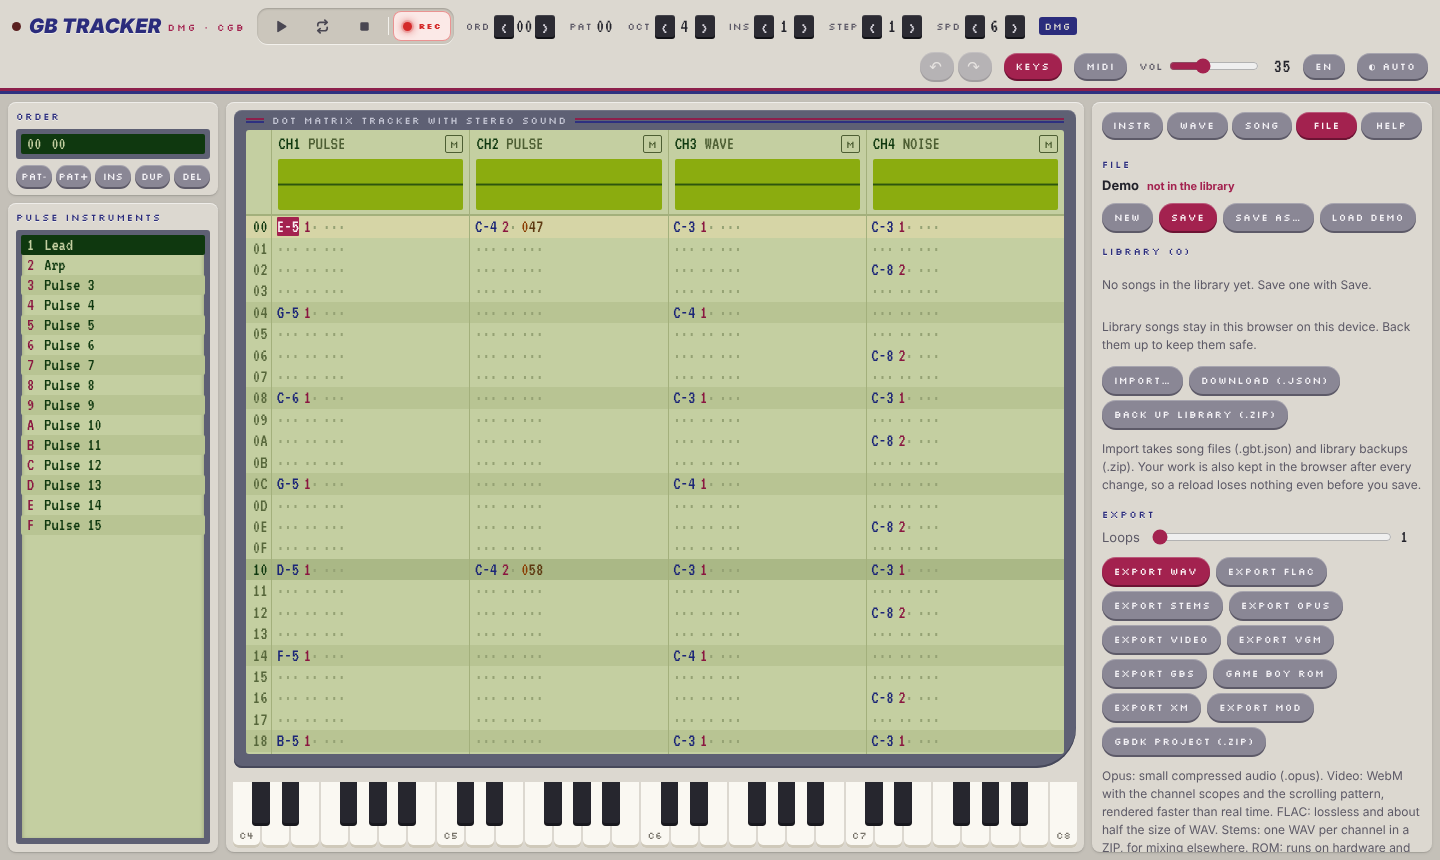
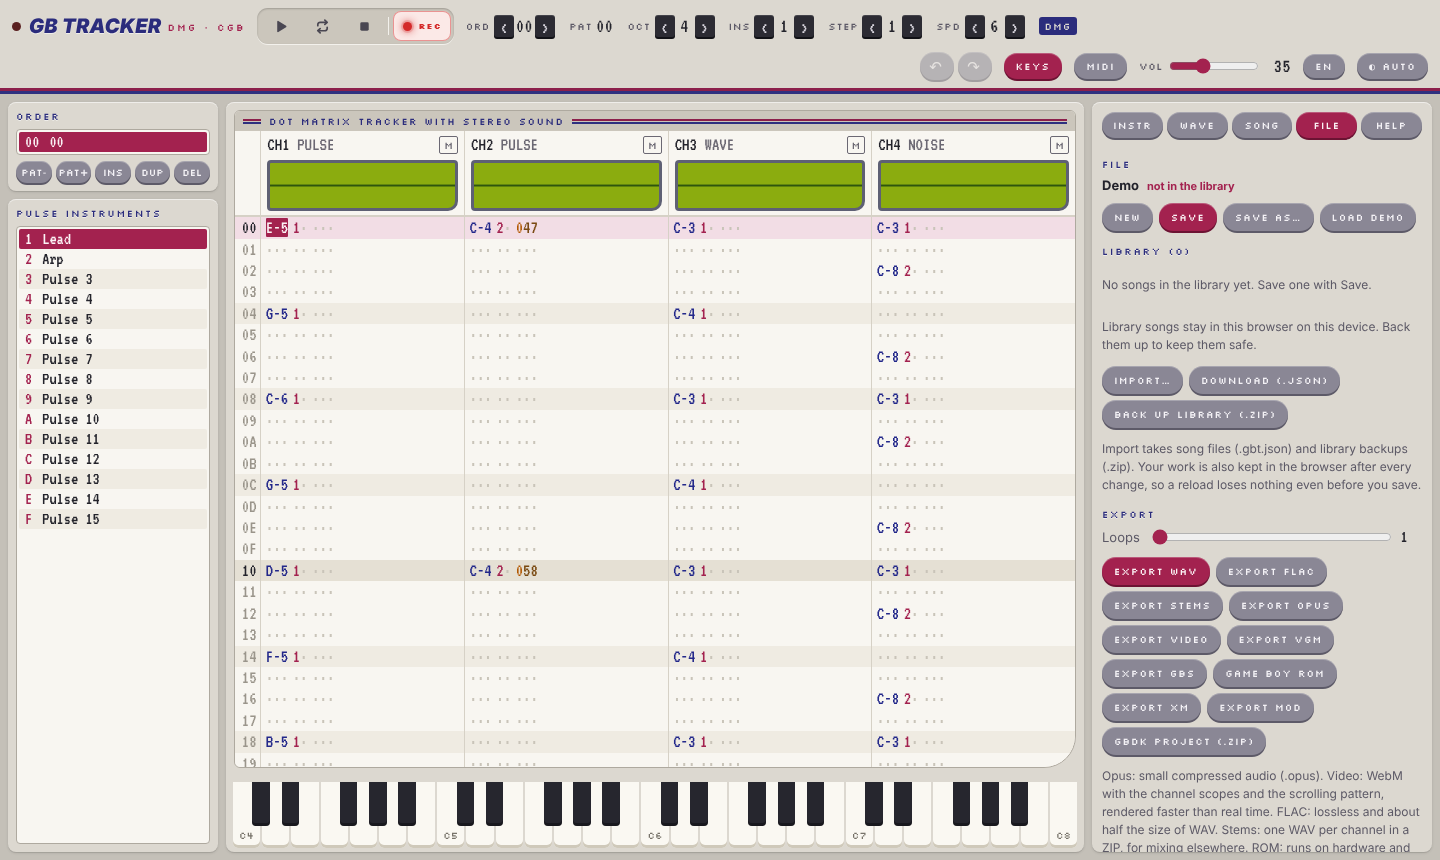
Take the LCD look off the pattern and lists, keep it for the scopes (#43)
The pattern goes back to a light, colour-coded sheet (dark sheet in dark
mode) framed by the DMG stripes and the rounded bottom-right corner; the
order and instrument lists match it with the red selection. The channel
scopes stay little green Game Boy screens, now each in its own bezel.
Manual text and screenshots updated.

Claude-Session: https://claude.ai/code/session_01Bz4qZkUzi921wfhBpzwWdz

diff --git a/src/style.css b/src/style.css
@@ -434,11 +434,10 @@ select.pill-btn {
   min-height: 0;
   flex: 1;
   padding: 2px;
-  border-radius: 3px;
+  border-radius: 4px;
   background: var(--pat-bg);
-  color: var(--lcd-text);
-  box-shadow: inset 0 0 0 3px var(--bezel), inset 0 2px 4px 3px rgb(0 0 0 / 0.25);
-  border: 3px solid var(--bezel);
+  color: var(--pat-ink);
+  border: 1px solid var(--line);
   font: 18px / 1 var(--mono);
 }
 
@@ -478,11 +477,10 @@ select.pill-btn {
   white-space: nowrap;
 }
 
-/* Selected like a Game Boy menu entry: inverted pixels. */
 .order-list button[aria-current='true'],
 .inst-list button[aria-current='true'] {
-  background: var(--lcd-sel);
-  color: var(--lcd-sel-ink);
+  background: var(--accent);
+  color: var(--accent-ink);
 }
 
 .order-list button[aria-current='true'] span,
@@ -525,17 +523,18 @@ select.pill-btn {
   --pat-font: clamp(17px, 0.6vw + 10px, 24px);
 }
 
-/* The screen bezel: slate glass frame with the two stripes and the rounded bottom-right corner. */
+/* The pattern sheet: paper, not LCD, framed by the stripes and the DMG's rounded bottom-right corner. */
 .screen {
   flex: 1;
   min-height: 0;
   display: flex;
   flex-direction: column;
   margin: 8px 8px 0;
-  padding: 0 12px 14px;
-  border-radius: 8px 8px 40px 8px;
-  background: var(--bezel);
-  box-shadow: inset 0 1px 0 rgb(255 255 255 / 0.12), inset 0 -2px 0 var(--bezel-lo);
+  overflow: hidden;
+  border: 1px solid var(--line);
+  --sheet-corner: 31px;
+  border-radius: 6px 6px calc(var(--sheet-corner) + 1px) 6px;
+  background: var(--pat-bg);
 }
 
 .screen-label {
@@ -543,9 +542,11 @@ select.pill-btn {
   align-items: center;
   gap: 8px;
   height: 20px;
+  padding: 0 8px;
   flex: none;
   overflow: hidden;
-  color: var(--bezel-ink);
+  background: var(--surface-2);
+  color: var(--navy);
   font: 400 10px var(--pixel);
   letter-spacing: 0.14em;
   white-space: nowrap;
@@ -563,14 +564,6 @@ select.pill-btn {
   flex: 1 0 18px;
 }
 
-.screen > .chan-head {
-  border-radius: 3px 3px 0 0;
-}
-
-.screen > .pattern {
-  border-radius: 0 0 3px 3px;
-}
-
 .chan-head,
 .prow {
   display: grid;
@@ -581,7 +574,7 @@ select.pill-btn {
 .chan-head {
   font: var(--pat-font) / 1.1 var(--mono);
   background: var(--pat-bg);
-  color: var(--lcd-text);
+  color: var(--pat-ink);
   border-bottom: 2px solid var(--pat-line);
   overflow: hidden;
   flex: none;
@@ -617,16 +610,16 @@ select.pill-btn {
 }
 
 .chan-title .kind {
-  color: var(--lcd-soft);
+  color: var(--pat-soft);
 }
 
 .chan .mute {
-  border: 1px solid var(--lcd-soft);
+  border: 1px solid var(--pat-soft);
   background: transparent;
   border-radius: 2px;
   font: 400 10px var(--pixel);
   padding: 2px 4px 1px;
-  color: var(--lcd-soft);
+  color: var(--pat-soft);
 }
 
 .chan.muted .mute {
@@ -648,7 +641,9 @@ select.pill-btn {
   height: clamp(28px, 6vh, 56px);
   display: block;
   background: var(--lcd-bg);
-  border-radius: 2px;
+  /* Each scope is a little Game Boy screen in its slate bezel. */
+  border: 3px solid var(--bezel);
+  border-radius: 4px 4px 10px 4px;
 }
 
 .pattern {
@@ -657,10 +652,15 @@ select.pill-btn {
   overflow: auto;
   background: var(--pat-bg);
   font: var(--pat-font) / 1.15 var(--mono);
-  color: var(--lcd-text);
+  color: var(--pat-ink);
   white-space: pre;
   outline: none;
   overscroll-behavior: contain;
+}
+
+/* The pattern scrolls inside the sheet, so it takes the rounded corner too: that clips its own scrollbars. */
+.screen > .pattern {
+  border-radius: 0 0 var(--sheet-corner) 5px;
 }
 
 .pattern:focus-visible {
@@ -696,7 +696,7 @@ select.pill-btn {
 }
 
 .prow.bar .num {
-  color: var(--lcd-text);
+  color: var(--pat-ink);
 }
 
 .cell {
@@ -1214,8 +1214,8 @@ a.btn {
 
   .screen {
     margin: 6px 6px 0;
-    padding: 0 6px 8px;
-    border-radius: 6px 6px 28px 6px;
+    --sheet-corner: 23px;
+    border-radius: 6px 6px 24px 6px;
   }
 
   .screen-label {
@@ -1265,8 +1265,8 @@ a.btn {
   .screen {
     grid-area: screen;
     margin: 4px;
-    padding: 4px 4px 6px;
-    border-radius: 6px 6px 20px 6px;
+    --sheet-corner: 15px;
+    border-radius: 6px 6px 16px 6px;
   }
 
   .screen-label {
@@ -1327,8 +1327,8 @@ a.btn {
 
   .screen {
     margin: 4px 4px 0;
-    padding: 4px 4px 6px;
-    border-radius: 6px 6px 20px 6px;
+    --sheet-corner: 15px;
+    border-radius: 6px 6px 16px 6px;
   }
 
   .screen-label {

diff --git a/src/theme.css b/src/theme.css
@@ -38,34 +38,32 @@
   --rec-ring: rgb(212 42 42 / 0.45);
   --rec-glow: rgb(212 42 42 / 0.18);
 
-  /* The screen: an unlit DMG LCD, four greens from pale to almost black. */
+  /* The pattern reads like paper; the four DMG greens are kept for the scopes and the wave editor. */
   --lcd-0: #c4cfa1;
   --lcd-1: #8bac0f;
   --lcd-2: #306230;
   --lcd-3: #0f380f;
-  --pat-bg: var(--lcd-0);
-  --pat-beat: #b8c493;
-  --pat-bar: #aab886;
-  --pat-cursor-row: #d6d5a6;
-  --pat-play: var(--lcd-2);
-  --pat-play-ink: #e0f0c0;
-  --pat-line: #a3b07c;
-  --c-num: #56663a;
-  --c-note: #1b2577;
-  --c-off: #5d6a45;
-  --c-inst: #8a1640;
-  --c-vol: #1d5420;
-  --c-fx: #8a3c00;
-  --c-param: #5c3810;
-  --c-empty: #95a274;
+  --pat-bg: #f8f6f1;
+  --pat-beat: #efebe2;
+  --pat-bar: #e5e0d4;
+  --pat-cursor-row: #f2dde5;
+  --pat-play: #a3224f;
+  --pat-play-ink: #fbf2f5;
+  --pat-line: #d6d1c6;
+  --pat-ink: #23232b;
+  --pat-soft: #6b6873;
+  --c-num: #9a958b;
+  --c-note: #23288a;
+  --c-off: #8b8790;
+  --c-inst: #a3224f;
+  --c-vol: #2d7a31;
+  --c-fx: #b25700;
+  --c-param: #7a4a12;
+  --c-empty: #c9c4b9;
 
   --lcd-bg: var(--lcd-1);
   --lcd-ink: var(--lcd-3);
   --lcd-dim: var(--lcd-2);
-  --lcd-text: var(--lcd-3);
-  --lcd-soft: #4d5e33;
-  --lcd-sel: var(--lcd-3);
-  --lcd-sel-ink: var(--lcd-0);
 
   --mono: 'VT323', ui-monospace, 'SFMono-Regular', Menlo, Consolas, 'Liberation Mono', monospace;
   --pixel: 'Silkscreen', 'VT323', ui-monospace, monospace;
@@ -110,33 +108,31 @@
     --rec-bg: #3a1a1c;
     --rec-ring: rgb(255 77 77 / 0.45);
     --rec-glow: rgb(255 77 77 / 0.2);
-    /* A backlit screen: dark green glass, bright phosphor-green ink. */
+    /* Scopes: a backlit screen, dark green glass with bright phosphor-green ink. */
     --lcd-0: #0e1a0e;
     --lcd-1: #9bbc0f;
     --lcd-2: #306230;
     --lcd-3: #0f380f;
-    --pat-bg: var(--lcd-0);
-    --pat-beat: #132313;
-    --pat-bar: #192e19;
-    --pat-cursor-row: #2a2a1a;
-    --pat-play: var(--lcd-1);
-    --pat-play-ink: var(--lcd-3);
-    --pat-line: #1f331f;
-    --c-num: #5f7f4c;
-    --c-note: #aab8ff;
-    --c-off: #7c8c70;
-    --c-inst: #ff86b0;
-    --c-vol: #9bdc5a;
+    --pat-bg: #18181b;
+    --pat-beat: #202025;
+    --pat-bar: #27272d;
+    --pat-cursor-row: #3a2531;
+    --pat-play: #cf4479;
+    --pat-play-ink: #fff4f8;
+    --pat-line: #303038;
+    --pat-ink: #ebe7de;
+    --pat-soft: #9e9aa5;
+    --c-num: #6e6a76;
+    --c-note: #a3b2ff;
+    --c-off: #7c7884;
+    --c-inst: #ff7fab;
+    --c-vol: #8fd46a;
     --c-fx: #ffb547;
     --c-param: #e2a25a;
-    --c-empty: #2c432c;
+    --c-empty: #3c3c44;
     --lcd-bg: var(--lcd-3);
     --lcd-ink: var(--lcd-1);
     --lcd-dim: #4d6a32;
-    --lcd-text: #b5d47a;
-    --lcd-soft: #6f8f55;
-    --lcd-sel: var(--lcd-1);
-    --lcd-sel-ink: var(--lcd-3);
   }
 }
 
@@ -176,31 +172,29 @@
   --rec-bg: #3a1a1c;
   --rec-ring: rgb(255 77 77 / 0.45);
   --rec-glow: rgb(255 77 77 / 0.2);
-  /* A backlit screen: dark green glass, bright phosphor-green ink. */
+  /* Scopes: a backlit screen, dark green glass with bright phosphor-green ink. */
   --lcd-0: #0e1a0e;
   --lcd-1: #9bbc0f;
   --lcd-2: #306230;
   --lcd-3: #0f380f;
-  --pat-bg: var(--lcd-0);
-  --pat-beat: #132313;
-  --pat-bar: #192e19;
-  --pat-cursor-row: #2a2a1a;
-  --pat-play: var(--lcd-1);
-  --pat-play-ink: var(--lcd-3);
-  --pat-line: #1f331f;
-  --c-num: #5f7f4c;
-  --c-note: #aab8ff;
-  --c-off: #7c8c70;
-  --c-inst: #ff86b0;
-  --c-vol: #9bdc5a;
+  --pat-bg: #18181b;
+  --pat-beat: #202025;
+  --pat-bar: #27272d;
+  --pat-cursor-row: #3a2531;
+  --pat-play: #cf4479;
+  --pat-play-ink: #fff4f8;
+  --pat-line: #303038;
+  --pat-ink: #ebe7de;
+  --pat-soft: #9e9aa5;
+  --c-num: #6e6a76;
+  --c-note: #a3b2ff;
+  --c-off: #7c7884;
+  --c-inst: #ff7fab;
+  --c-vol: #8fd46a;
   --c-fx: #ffb547;
   --c-param: #e2a25a;
-  --c-empty: #2c432c;
+  --c-empty: #3c3c44;
   --lcd-bg: var(--lcd-3);
   --lcd-ink: var(--lcd-1);
   --lcd-dim: #4d6a32;
-  --lcd-text: #b5d47a;
-  --lcd-soft: #6f8f55;
-  --lcd-sel: var(--lcd-1);
-  --lcd-sel-ink: var(--lcd-3);
 }

diff --git a/src/manual/manual.css b/src/manual/manual.css
@@ -213,8 +213,8 @@ button {
   padding: 12px 14px;
   border-radius: 8px;
   background: var(--pat-bg);
-  color: var(--lcd-text);
-  border: 6px solid var(--bezel);
+  color: var(--pat-ink);
+  border: 1px solid var(--line);
   border-radius: 8px 8px 24px 8px;
   line-height: 1.2;
 }

diff --git a/docs/MANUAL.md b/docs/MANUAL.md
@@ -53,9 +53,9 @@ to put the song into your song library, where you can keep as many songs as you 
 
 ![Desktop layout, light theme](images/layout-desktop-light.png)
 
-The tracker is dressed like the 1989 Game Boy (DMG): a grey case, red A/B buttons, dark D-pad keys and a green
-LCD screen for the pattern, the order and instrument lists and the scopes, all in pixel fonts. In the dark theme
-the case turns black and the screen glows like a backlit one.
+The tracker is dressed like the 1989 Game Boy (DMG): a grey case, red A/B buttons, dark D-pad keys and pixel
+fonts. The pattern stays a light, colour-coded sheet; only the channel scopes and the wave editor are little green
+Game Boy screens. In the dark theme the case turns black and the scopes glow like a backlit screen.
 
 **Toolbar (top)**
 
@@ -77,7 +77,7 @@ the case turns black and the screen glows like a backlit one.
 | MIDI | Turns MIDI input on or off. While on, it shows the number of connected inputs. |
 | VOL | Master volume of the browser playback (default 35). Exports are not affected. |
 | Language | Language of the interface: English, Deutsch, Español, Français. The first visit picks the browser's language; your choice is remembered. This manual is in English. |
-| Theme | Cycles between automatic (follows the system), light (grey DMG case, unlit green LCD) and dark (black case, backlit LCD). |
+| Theme | Cycles between automatic (follows the system), light (grey DMG case) and dark (black case). |
 
 **Left sidebar**
 
